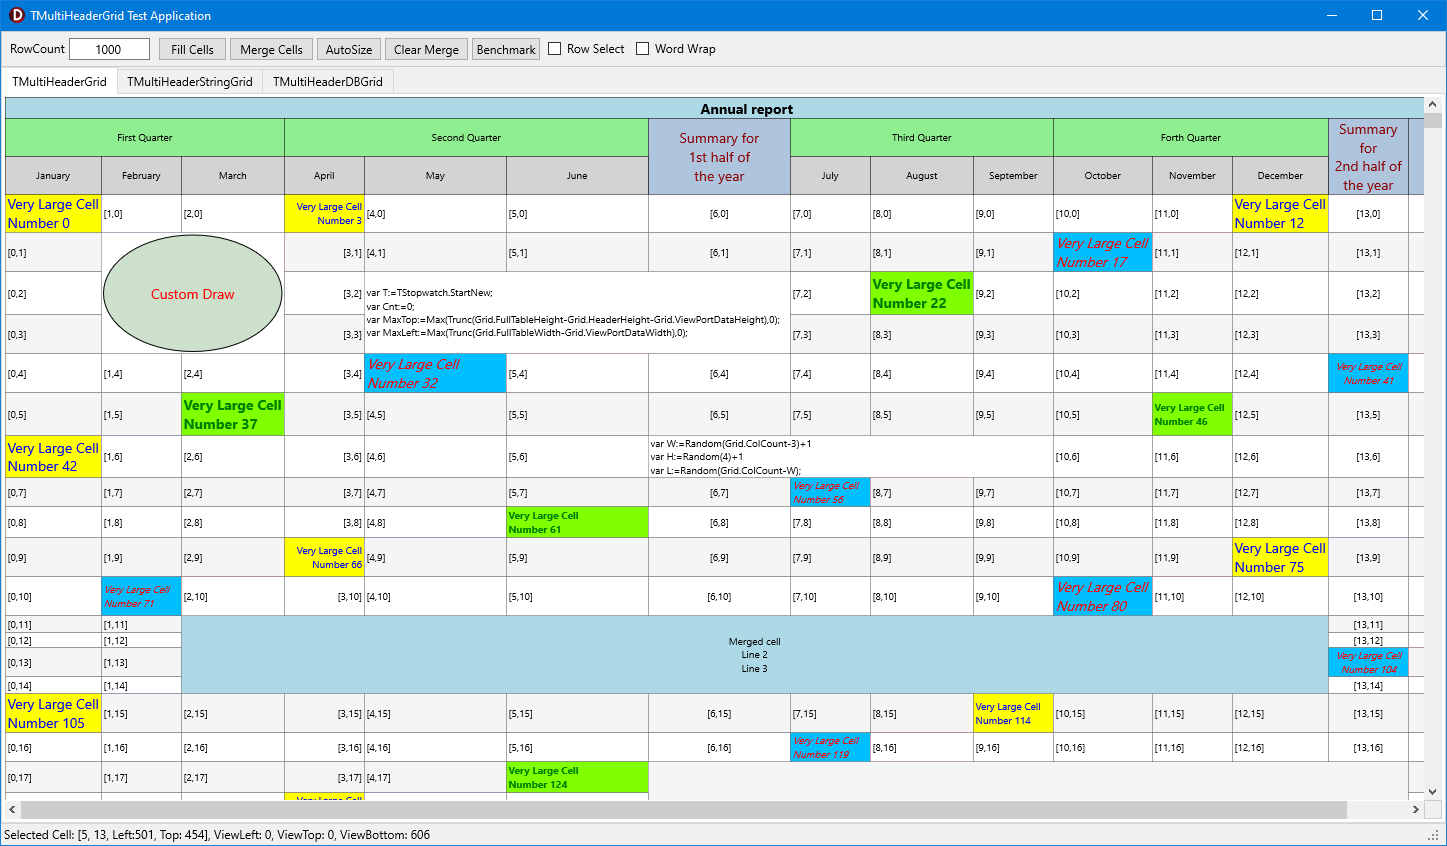
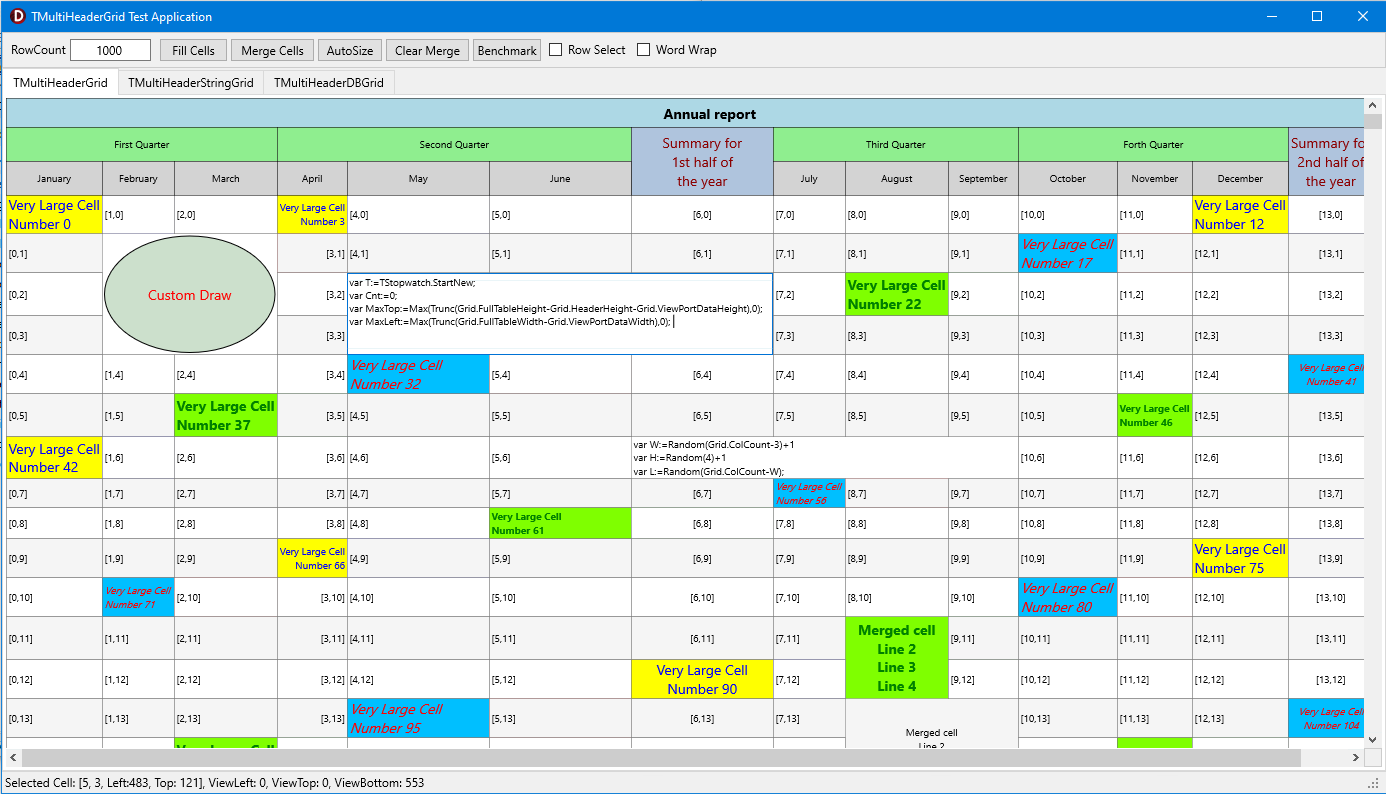
Readme

diff --git a/README.md b/README.md
@@ -1,7 +1,5 @@
 Lightweight Delphi FMX VCL-like Grid.
 
-Read only.
-
 Support headers, merged cells and styles.
 
 **TMultiHeaderGrid** - does not store cell texts or styles. Use events to populate.  
@@ -10,6 +8,7 @@ Support headers, merged cells and styles.
 ![alt text](https://raw.githubusercontent.com/rgreat/FMX.MultiHeaderGrid/refs/heads/main/TMultiHeaderGrid.png)
 
 **TMultiHeaderDBGrid** - show grid from TDataSource (from TDataSet). 
+Read only.
  
 ![alt text](https://raw.githubusercontent.com/rgreat/FMX.MultiHeaderGrid/refs/heads/main/TMultiHeaderDBGrid.png)
 